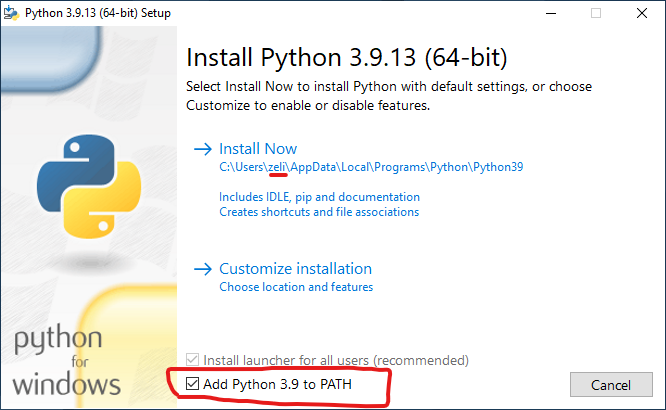
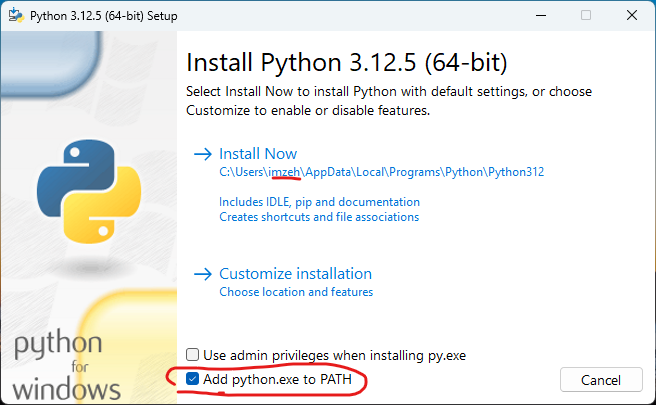
refresh python version

diff --git a/docs/install.md b/docs/install.md
@@ -5,18 +5,14 @@ A list of software to install
 ## :simple-python: Python
 
 <!-- prettier-ignore -->
-1. Go to [Python 3.9.13](https://www.python.org/downloads/release/python-3913/) and download the [Windows installer (64-bit)](https://www.python.org/ftp/python/3.9.13/python-3.9.13-amd64.exe).
+1. Go to [Python 3.12.5](https://www.python.org/downloads/release/python-3125/) and download the [Windows installer (64-bit)](https://www.python.org/ftp/python/3.12.5/python-3.12.5-amd64.exe).
 
-2. Execute the installer and make sure to check the box underneath that says **Add Python 3.9 to path**.
+2. Execute the installer and make sure to check the box underneath that says **Add python.exe to path**.
 
     ![](./assets/python-install-1.png)
 
     !!! note
         If your username contains a space, use a location that doesn't spaces in it.
-
-3. Also **Disable path length limit**.
-
-    ![](./assets/python-install-2.png)
 
 ## :simple-visualstudiocode: Visual Studio Code
 
